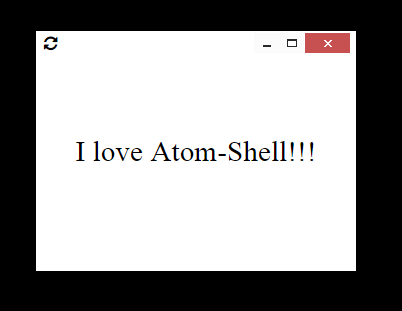
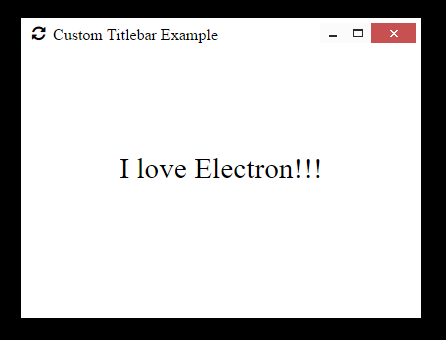
Update README & Screenshot

Changed region(s): [[0.0299, 0.0289, 0.9552, 0.955], [0.1791, 0.4341, 0.806, 0.5498], [0.6567, 0.1447, 0.6866, 0.1736]]

diff --git a/README.md b/README.md
@@ -1,16 +1,16 @@
-atom-shell-custom-titlebar-example
+electron-custom-titlebar-example
 ==================================
 
-An example application for Atom-Shell that demonstrates a custom titlebar with icons
+An example application for Electron that demonstrates using a custom titlebar with icons.
 
-##Screenshot
+## Screenshot
 
 <img src="screenshots/custom-window-titlebar-and-buttons.PNG" alt="screenshot of custom window titlebar" />
 
-##Author
+## Author(s)
 
 Frank Hale &lt;frankhale@gmail.com&gt;
 
-##License
+## License
 
 GNU GPL v3
